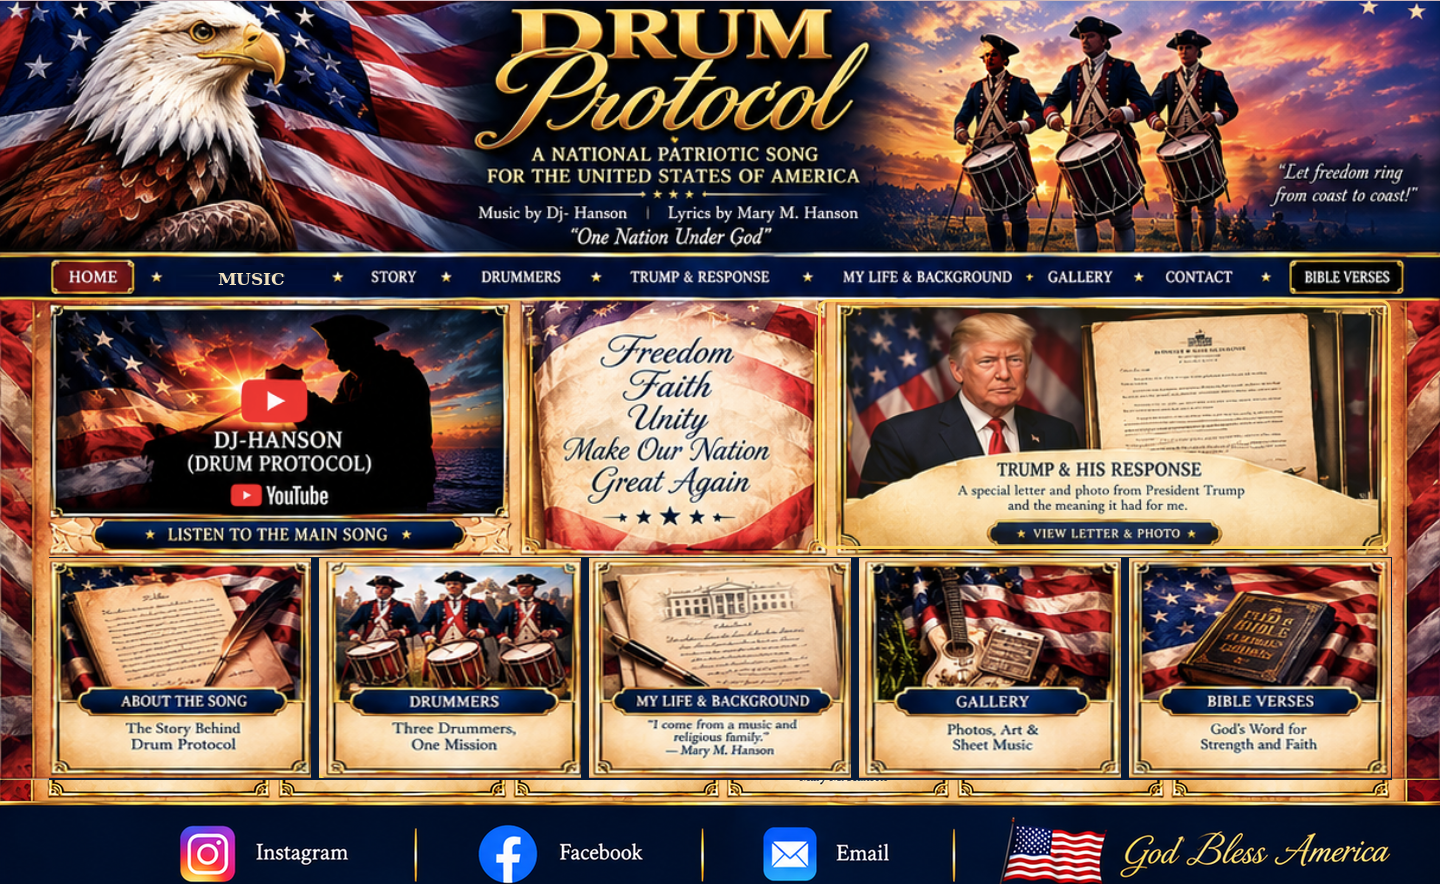
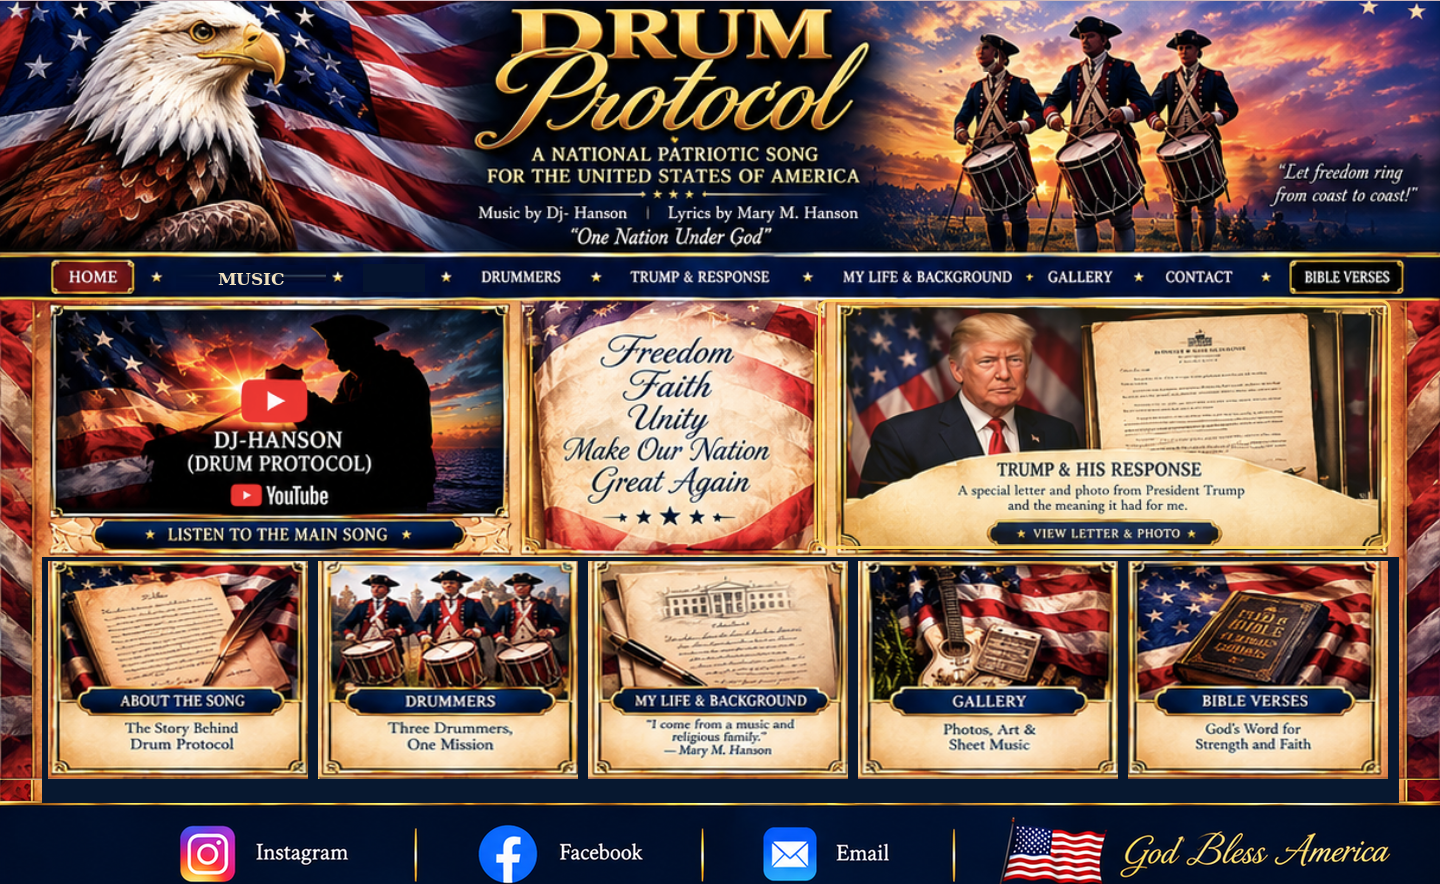
Add files via upload

Changed region(s): [[0.0312, 0.6109, 0.9688, 0.9163], [0.6562, 0.0305, 0.7188, 0.0916], [0.25, 0.3054, 0.2812, 0.336]]

diff --git a/index.html b/index.html
@@ -23,7 +23,7 @@ html,body{margin:0;background:#071b39}
 </head><body><div class="wrap">
 <img src="Drum-Protocol-Clean-Homepage.png" alt="Drum Protocol">
 <a class="hot" href="index.html" aria-label="home" style="left:3.5417%;top:31.4951%;width:5.8333%;height:4.9020%"></a><a class="hot" href="Drum-Protocol-Sheet-Music.pdf" target="_blank" aria-label="music" style="left:12.2222%;top:31.4951%;width:10.6250%;height:4.9020%"></a><a class="hot" href="drummers.html" aria-label="drumnav" style="left:32.7083%;top:31.4951%;width:7.3611%;height:4.9020%"></a><a class="hot" href="trump-response.html" aria-label="trumpnav" style="left:42.9861%;top:31.4951%;width:11.0417%;height:4.9020%"></a><a class="hot" href="life-background.html" aria-label="lifenav" style="left:57.2917%;top:31.4951%;width:14.0972%;height:4.9020%"></a><a class="hot" href="gallery.html" aria-label="galnav" style="left:72.2222%;top:31.4951%;width:6.6667%;height:4.9020%"></a><a class="hot" href="contact.html" aria-label="contactnav" style="left:79.8611%;top:31.4951%;width:7.5000%;height:4.9020%"></a><a class="hot" href="bible-verses.html" aria-label="biblenav" style="left:89.1667%;top:31.4951%;width:8.4028%;height:4.9020%"></a><a class="hot" href="https://www.youtube.com/watch?v=4VN73PMejGE" target="_blank" aria-label="song" style="left:3.4722%;top:37.5000%;width:31.8750%;height:29.9020%"></a><a class="hot" href="trump-response.html" aria-label="trump" style="left:57.9861%;top:37.5000%;width:38.5417%;height:29.9020%"></a>
-<a class="hot" href="about.html" aria-label="about" style="left:3.4028%;top:63.1222%;width:18.1944%;height:24.8869%"></a><a class="hot" href="drummers.html" aria-label="drummers" style="left:22.1528%;top:63.1222%;width:18.1944%;height:24.8869%"></a><a class="hot" href="life-background.html" aria-label="life" style="left:40.9028%;top:63.1222%;width:18.1944%;height:24.8869%"></a><a class="hot" href="gallery.html" aria-label="gallery" style="left:59.6528%;top:63.1222%;width:18.1944%;height:24.8869%"></a><a class="hot" href="bible-verses.html" aria-label="bible" style="left:78.4028%;top:63.1222%;width:18.1944%;height:24.8869%"></a>
+<a class="hot" href="about.html" aria-label="about" style="left:3.3333%;top:63.4615%;width:18.0556%;height:24.6606%"></a><a class="hot" href="drummers.html" aria-label="drummers" style="left:22.0833%;top:63.4615%;width:18.0556%;height:24.6606%"></a><a class="hot" href="life-background.html" aria-label="life" style="left:40.8333%;top:63.4615%;width:18.0556%;height:24.6606%"></a><a class="hot" href="gallery.html" aria-label="gallery" style="left:59.5833%;top:63.4615%;width:18.0556%;height:24.6606%"></a><a class="hot" href="bible-verses.html" aria-label="bible" style="left:78.3333%;top:63.4615%;width:18.0556%;height:24.6606%"></a>
 <a class="hp-social-link hp-instagram" href="https://www.instagram.com/maryhanson711_/" target="_blank" rel="noopener noreferrer" aria-label="Instagram"></a>
 <a class="hp-social-link hp-facebook" href="https://www.facebook.com/profile.php?id=61592048799260" target="_blank" rel="noopener noreferrer" aria-label="Facebook"></a>
 <a class="hp-social-link hp-email" href="mailto:djhanson711@gmail.com" aria-label="Email"></a>
